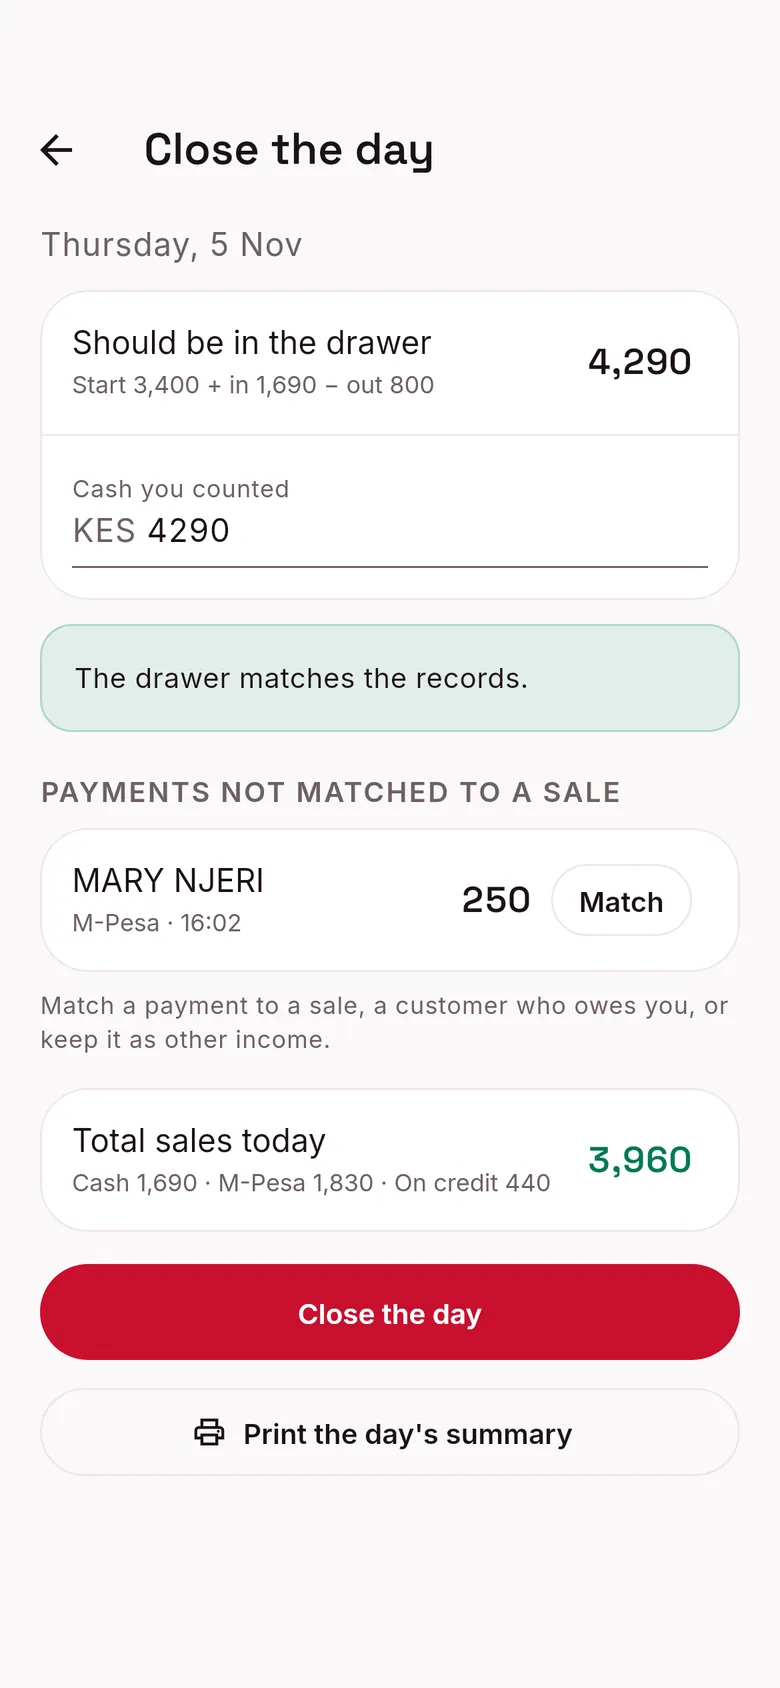
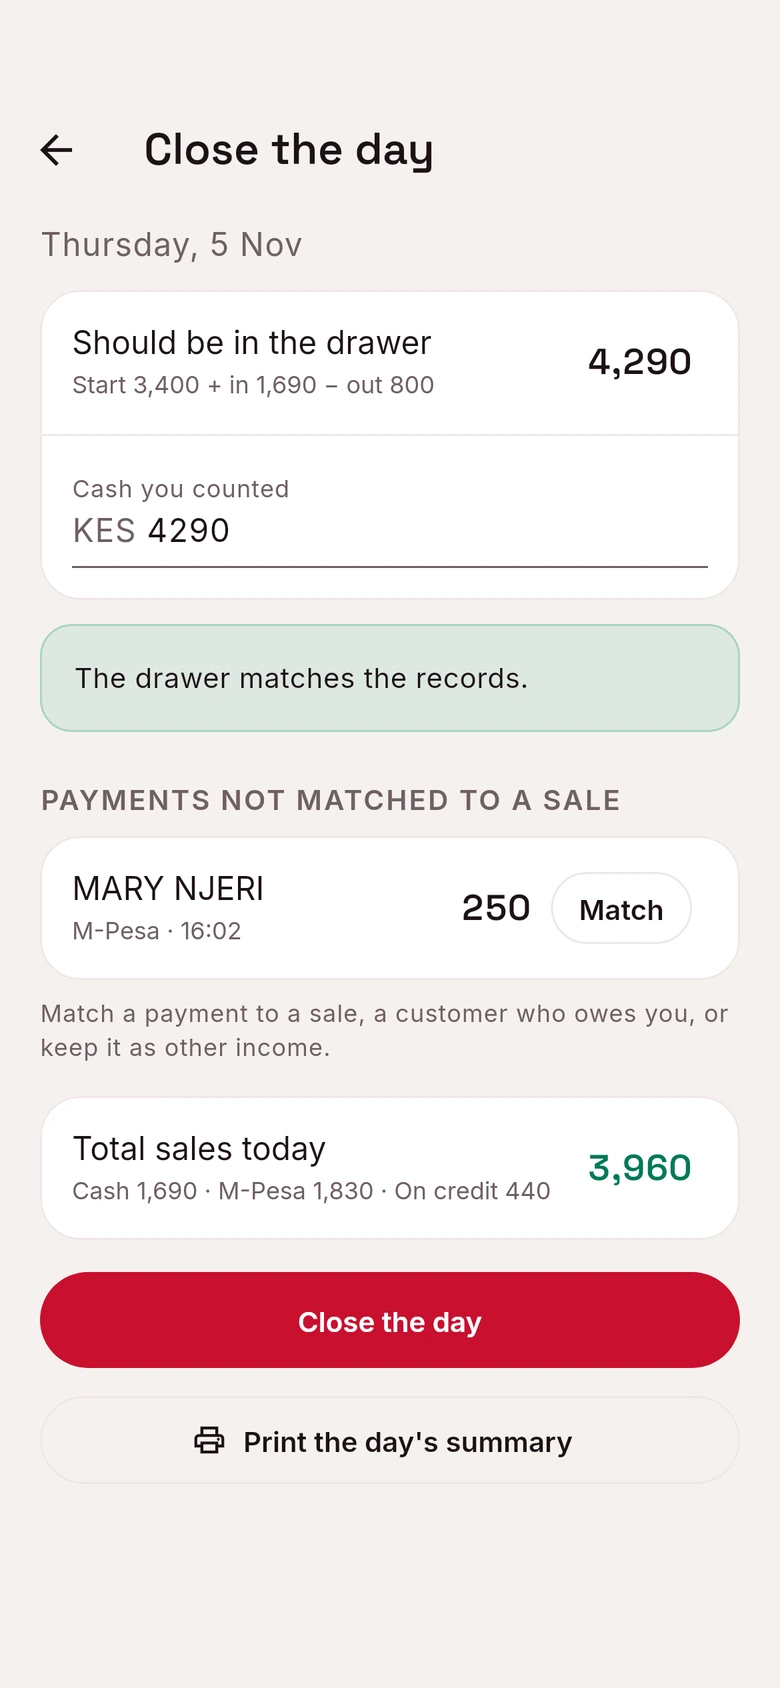
docs: app screenshots from the current app
Re-render all 20 screens from the app's dev branch: the calm theme and
lead cards, the Health Index card, the Ask bar, journal-backed balances
and the F-Droid giving screen. Alt text now names the Ask bar on Home
and Today, the ask link on Insights, and Fuliza among the debts.

diff --git a/src/data/site.ts b/src/data/site.ts
@@ -494,7 +494,7 @@ export const screens = {
   home: {
     file: "home",
     name: "Home",
-    alt: "Pesa Clarity home screen showing safe to spend today, money left this month, the runway at this pace, what is left at month end and the financial health score with its weakest part",
+    alt: "Pesa Clarity home screen showing safe to spend today, money left this month, the runway at this pace, what is left at month end, the financial health card and a bar to ask about your money",
   },
   activity: {
     file: "activity",
@@ -514,12 +514,12 @@ export const screens = {
   debts: {
     file: "debts",
     name: "Debts",
-    alt: "Debts screen with what is left to pay and the debt-free date, the payoff order, each debt, the Fuliza tracker and a what-if slider",
+    alt: "Debts screen with what is left to pay and the debt-free date, the payoff order, each debt including Fuliza, and the Fuliza tracker",
   },
   insights: {
     file: "insights",
     name: "Insights",
-    alt: "Insights screen with what changed this month, such as food up on last month, and spending by category",
+    alt: "Insights screen with what changed this month, such as food up on last month with a link to ask about it, and spending by category",
   },
   accounts: {
     file: "accounts",
@@ -534,7 +534,7 @@ export const screens = {
   today: {
     file: "today",
     name: "Today",
-    alt: "Business Today screen with sales today split by cash, M-Pesa and credit, up on a usual Thursday, buttons for Bought, Got paid, Paid and Close the day, more ways to record, and payments waiting for their M-Pesa message",
+    alt: "Business Today screen with sales today split by cash, M-Pesa and credit, up on a usual Thursday, buttons for Bought, Got paid, Paid and Close the day, more ways to record, payments waiting for their M-Pesa message and a bar to ask about the business",
   },
   sell: {
     file: "sell",
